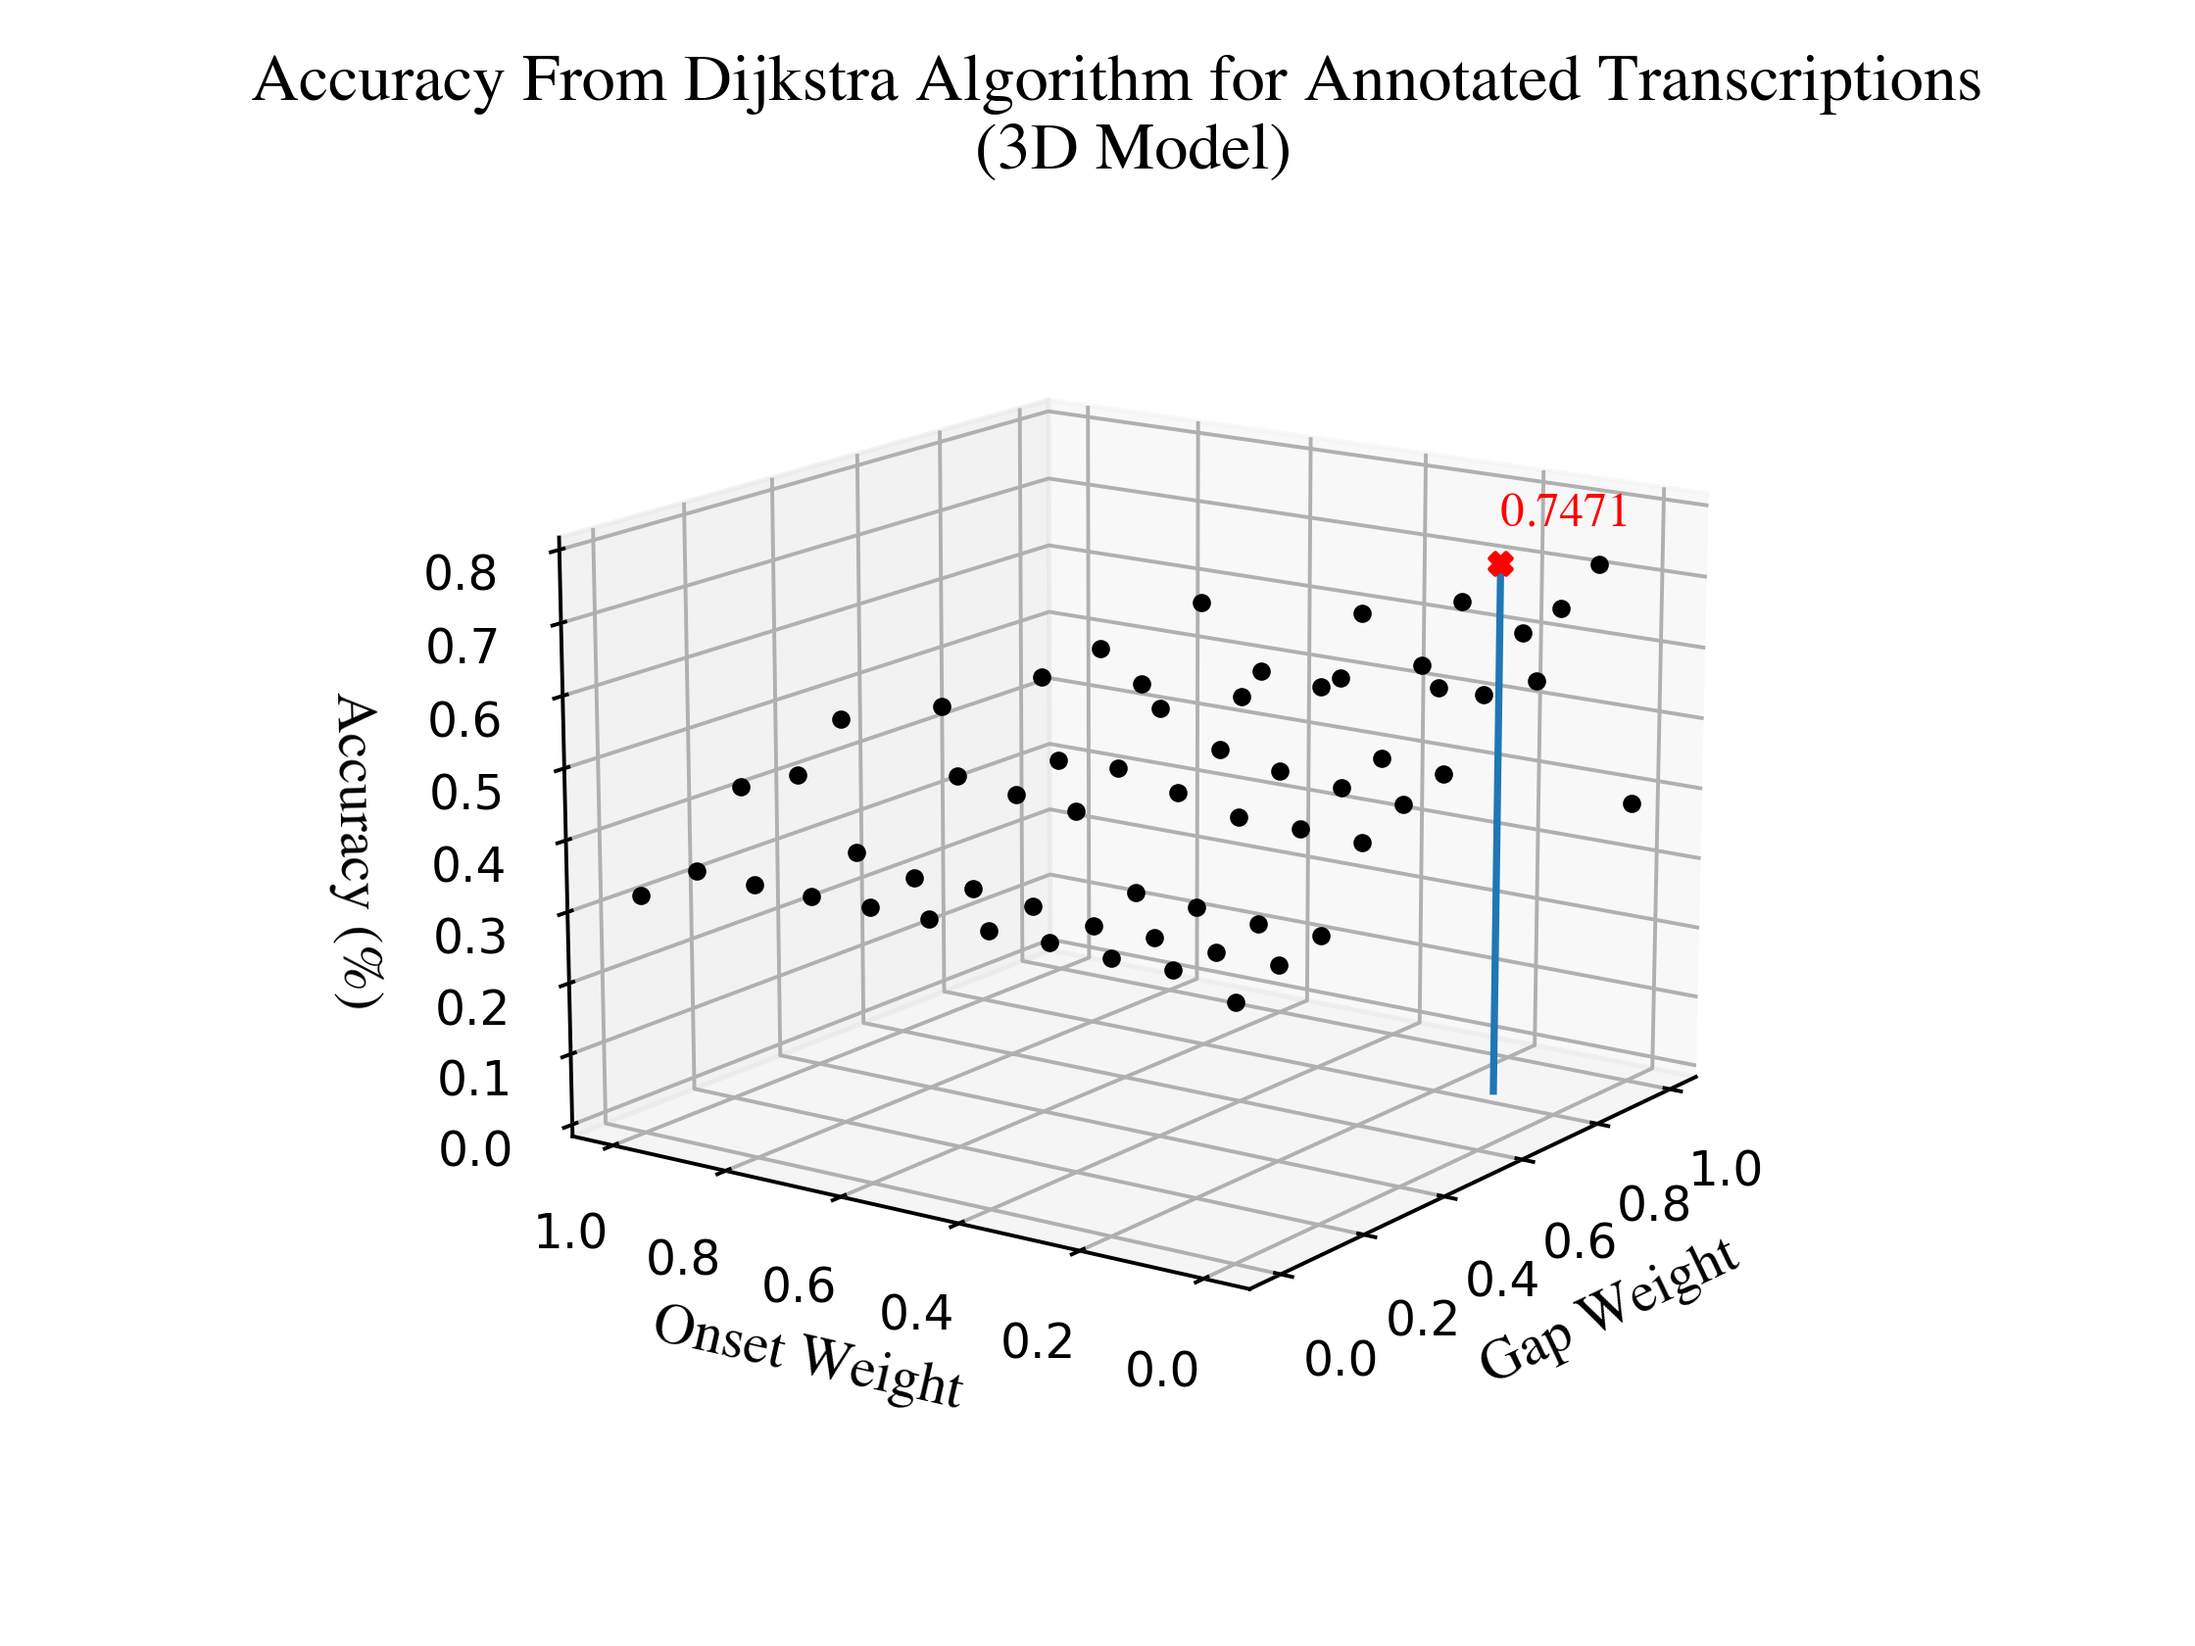
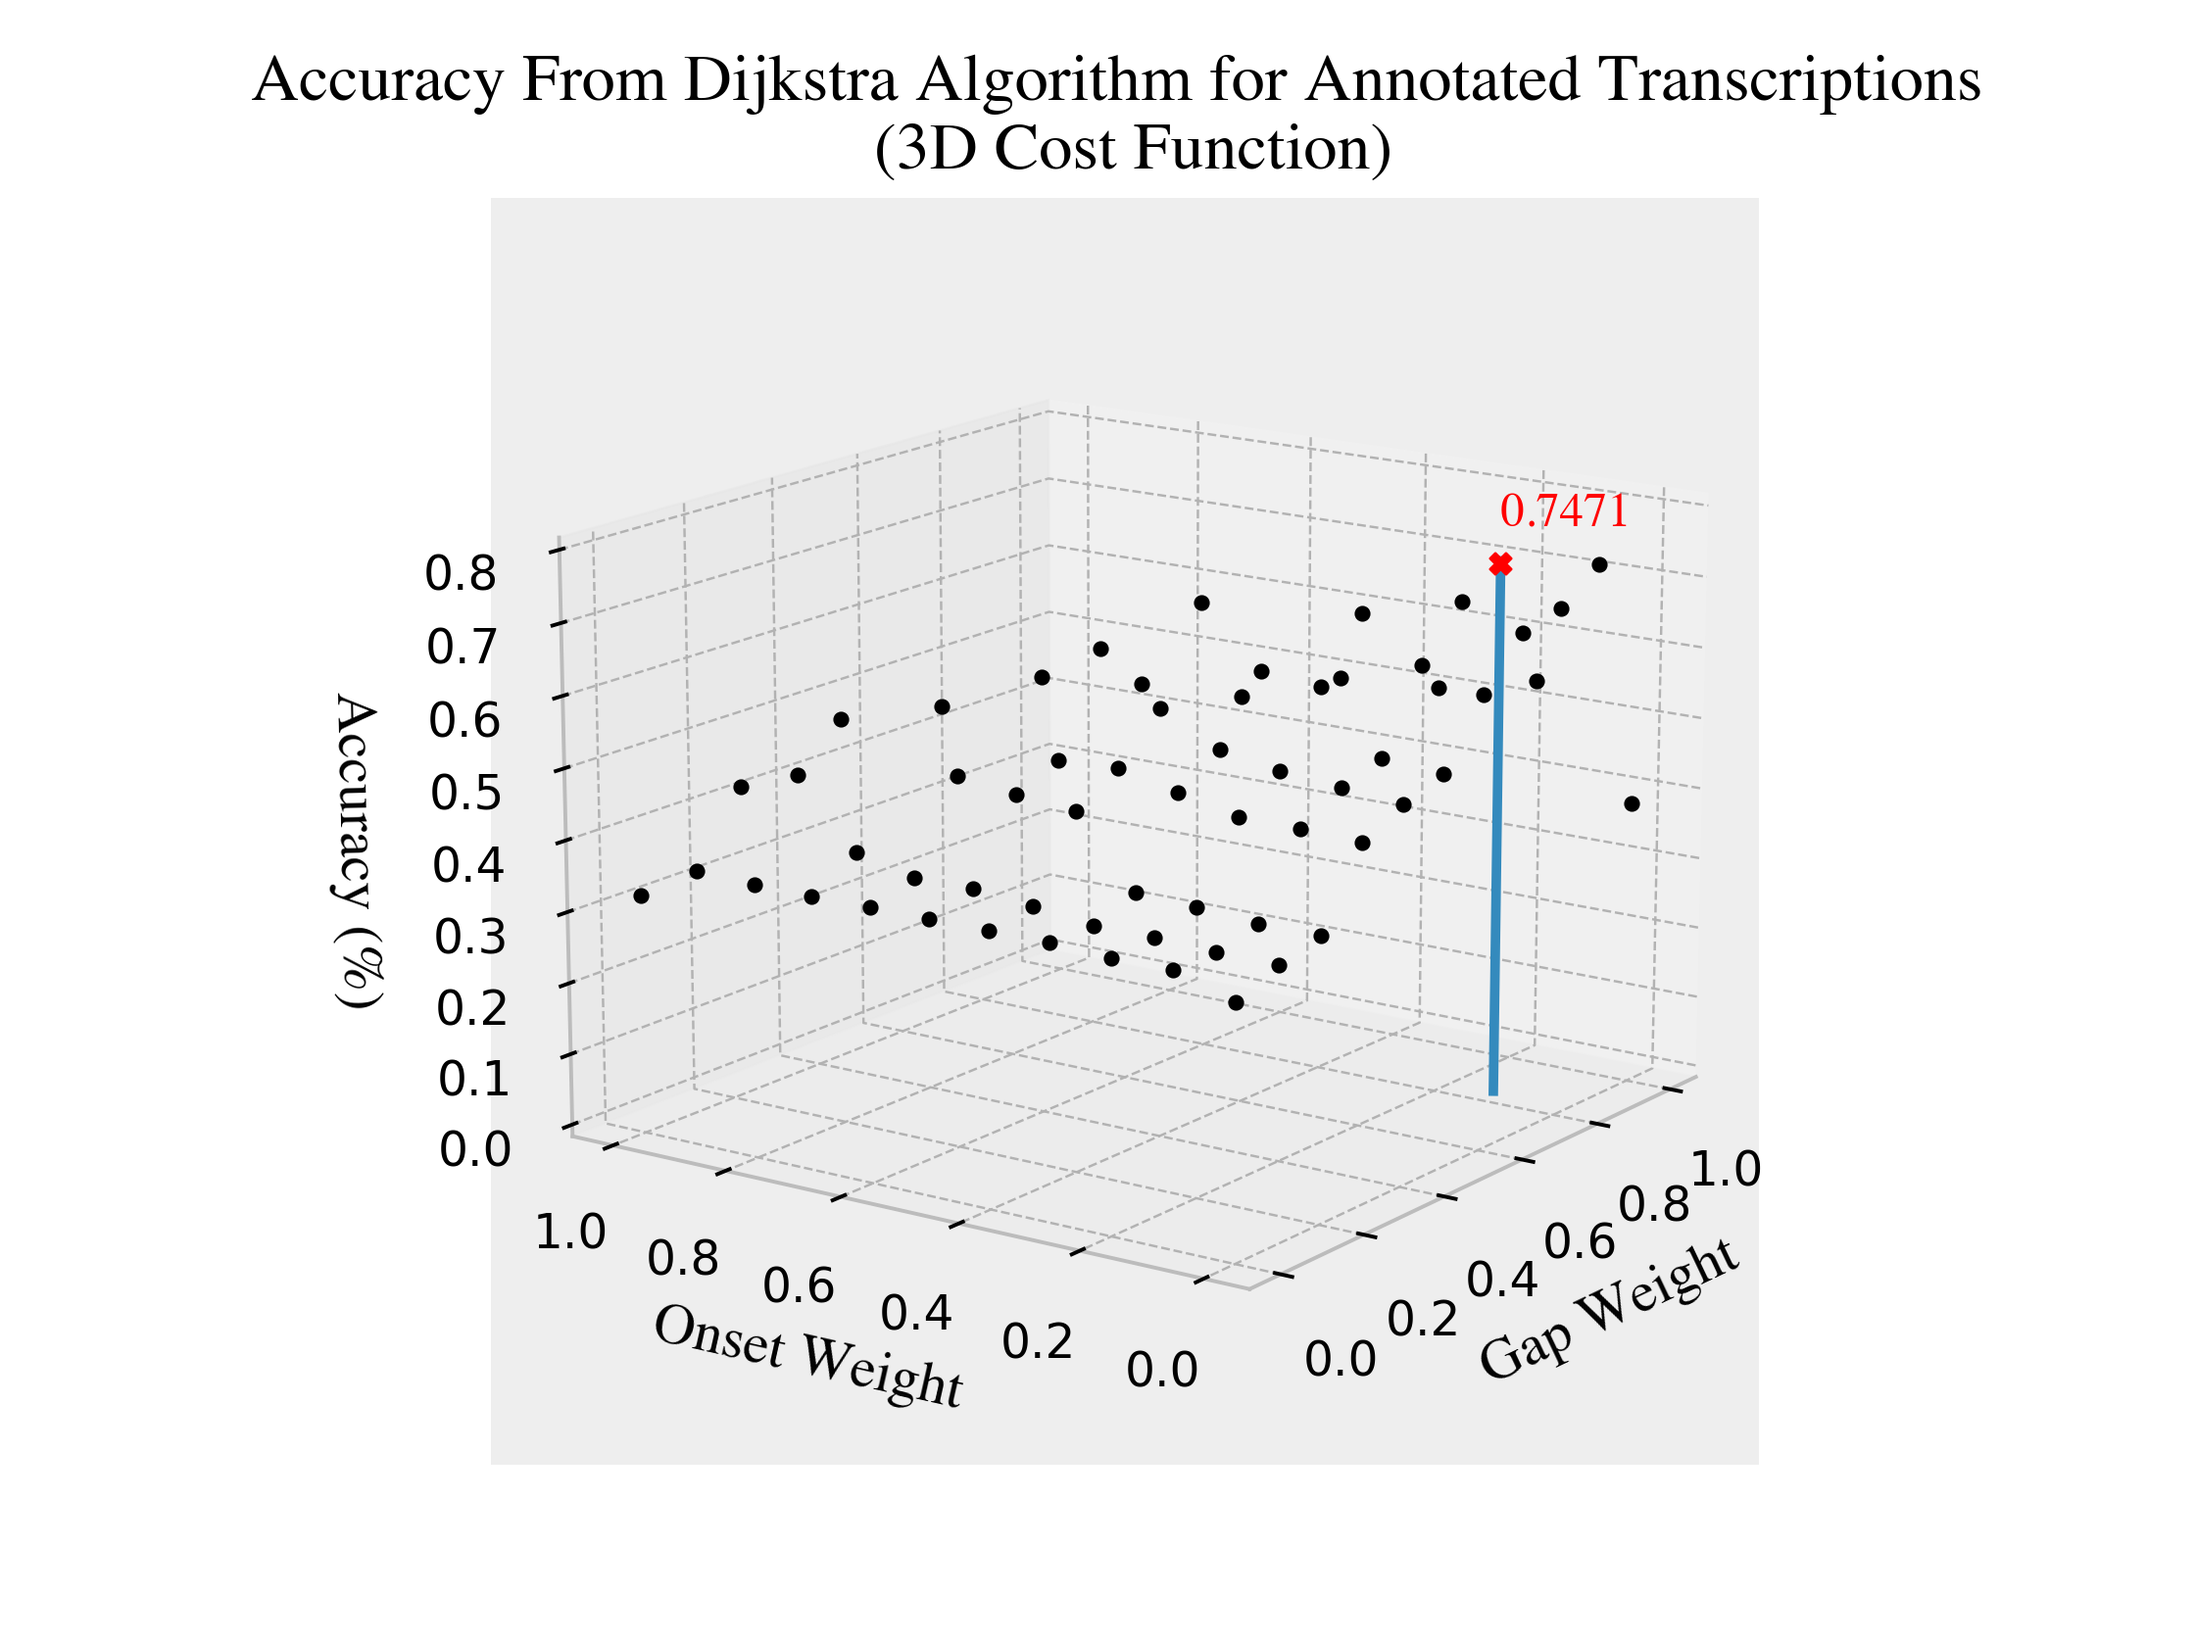
Updated 3D CF plot.

diff --git a/decitala/extra/hyperparameters.py b/decitala/extra/hyperparameters.py
@@ -140,7 +140,7 @@ def plot_3D_points(filepath, save_path=None):
 	ax = plt.axes(projection="3d")
 
 	ax.set_title(
-		"Accuracy From Dijkstra Algorithm for Annotated Transcriptions \n (3D Model)",
+		"Accuracy From Dijkstra Algorithm for Annotated Transcriptions \n (3D Cost Function)",
 		fontname="Times",
 		fontsize=14
 	)
@@ -192,4 +192,4 @@ def plot_3D_points(filepath, save_path=None):
 
 	plt.show()
 
-# plot_3D_points(latest)#, "/Users/lukepoeppel/decitala/decitala/extra/3D_results_74.71.png")
+# plot_3D_points(latest, "/Users/lukepoeppel/decitala/decitala/extra/3D_results_74.71.png")

diff --git a/CHANGELOG.md b/CHANGELOG.md
@@ -3,7 +3,7 @@ All important changes to the decitala package will be documented here.
 
 The changelog format is based on [Keep a Changelog](https://keepachangelog.com/en/1.0.0/) and the project uses [Semantic Versioning](https://semver.org/spec/v2.0.0.html).
 
-## [v0.14.0](https://github.com/Luke-Poeppel/decitala/tree/v0.14.0) ???
+## [v0.14.0](https://github.com/Luke-Poeppel/decitala/tree/v0.14.0) July 1, 2021
 #### Added
 - Moved all `moiseaux` (private repo) tools to `decitala`. The `decitala.db` now holds `Transcription` and `Species` SQLAlchemy query wrappers; also added the corresponding helpers: `db.get_all_transcriptions()` and `db.get_all_species()`. 
 - Added `database.db_utils` module. 
